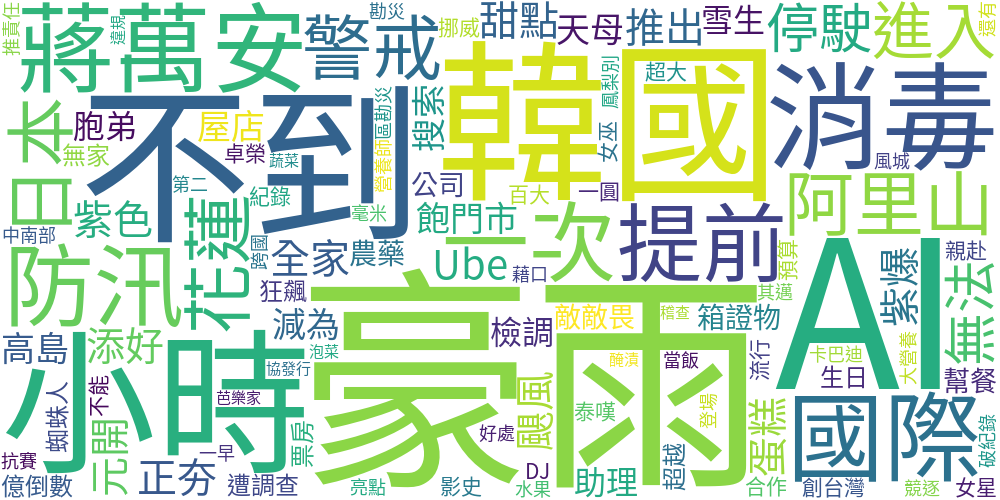
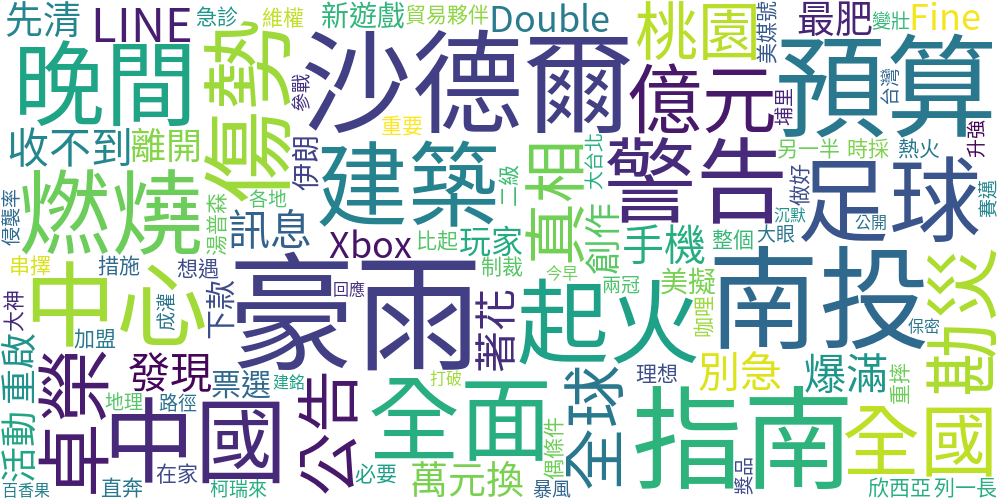
add file 2026 0825

diff --git a/news_scraper.py b/news_scraper.py
@@ -1,0 +1,183 @@
+import logging
+import json
+import sqlite3
+import time
+from datetime import datetime
+import requests
+from bs4 import BeautifulSoup
+import pandas as pd
+import schedule
+
+# 設定 Logging 紀錄
+logging.basicConfig(
+    level=logging.INFO,
+    format='%(asctime)s - [%(levelname)s] - %(message)s'
+)
+
+class NewsPipeline:
+    """
+    ETtoday 新聞自動化 ETL 管道
+    包含：爬取、去重、SQLite 寫入、歷史清理、CSV/JSON 匯出
+    """
+
+    def __init__(self, db_path: str = "news_database.db", max_keep_records: int = 100):
+        self.target_url = "https://www.ettoday.net/news/news-list.htm"
+        self.headers = {
+            "User-Agent": (
+                "Mozilla/5.0 (Windows NT 10.0; Win64; x64) "
+                "AppleWebKit/537.36 (KHTML, like Gecko) "
+                "Chrome/120.0.0.0 Safari/537.36"
+            )
+        }
+        self.db_path = db_path
+        self.max_keep_records = max_keep_records  # 資料庫最多保留的新聞筆數
+        self._init_db()
+
+    def _init_db(self):
+        """初始化 SQLite 資料庫與資料表"""
+        with sqlite3.connect(self.db_path) as conn:
+            cursor = conn.cursor()
+            # 以 url 作為 PRIMARY KEY 達成自動去重功能
+            cursor.execute('''
+                CREATE TABLE IF NOT EXISTS news (
+                    url TEXT PRIMARY KEY,
+                    title TEXT NOT NULL,
+                    category TEXT,
+                    news_time TEXT,
+                    scraped_at TEXT
+                )
+            ''')
+            conn.commit()
+
+    def fetch_page(self) -> str | None:
+        """發送 HTTP 請求並取得網頁原始碼"""
+        try:
+            logging.info(f"開始抓取網頁內容: {self.target_url}")
+            response = requests.get(self.target_url, headers=self.headers, timeout=10)
+            response.raise_for_status()
+            response.encoding = 'utf-8'
+            return response.text
+        except requests.exceptions.RequestException as e:
+            logging.error(f"網絡請求失敗: {e}")
+            return None
+
+    def parse_news(self, html_content: str) -> list[dict]:
+        """解析 HTML 結構"""
+        if not html_content:
+            return []
+
+        soup = BeautifulSoup(html_content, 'html.parser')
+        news_list = []
+        news_items = soup.select('.part_list_2 > h3')
+
+        for item in news_items:
+            try:
+                time_str = item.select_one('.date').text.strip()
+                category = item.select_one('em').text.strip()
+                title_tag = item.select_one('a')
+
+                title = title_tag.text.strip()
+                link = "https://www.ettoday.net" + title_tag['href'] if title_tag['href'].startswith('/') else title_tag['href']
+
+                news_data = {
+                    "time": time_str,
+                    "category": category,
+                    "title": title,
+                    "url": link,
+                    "scraped_at": datetime.now().strftime("%Y-%m-%d %H:%M:%S")
+                }
+                news_list.append(news_data)
+
+            except AttributeError:
+                continue
+
+        return news_list
+
+    def save_to_db(self, news_list: list[dict]) -> int:
+        """將資料寫入 SQLite 並去除重複，最後清理舊資料"""
+        if not news_list:
+            return 0
+
+        new_inserted = 0
+        with sqlite3.connect(self.db_path) as conn:
+            cursor = conn.cursor()
+
+            # 1. 寫入資料：若 url 已存在則忽略 (INSERT OR IGNORE)
+            for news in news_list:
+                cursor.execute('''
+                    INSERT OR IGNORE INTO news (url, title, category, news_time, scraped_at)
+                    VALUES (?, ?, ?, ?, ?)
+                ''', (news['url'], news['title'], news['category'], news['time'], news['scraped_at']))
+
+                if cursor.rowcount > 0:
+                    new_inserted += 1
+
+            # 2. 保留最新 N 筆，刪除其餘舊資料
+            cursor.execute('''
+                DELETE FROM news
+                WHERE rowid NOT IN (
+                    SELECT rowid FROM news ORDER BY scraped_at DESC, news_time DESC LIMIT ?
+                )
+            ''', (self.max_keep_records,))
+
+            conn.commit()
+
+        logging.info(f"SQLite 更新完畢：新增 {new_inserted} 筆資料，舊資料已清理，目前資料庫維持最新 {self.max_keep_records} 筆。")
+        return new_inserted
+
+    def export_files(self):
+        """從 SQLite 讀取最新資料並匯出成 CSV 與 JSON"""
+        with sqlite3.connect(self.db_path) as conn:
+            df = pd.read_sql_query("SELECT * FROM news ORDER BY scraped_at DESC, news_time DESC", conn)
+
+        if df.empty:
+            logging.warning("資料庫無內容，無法匯出。")
+            return
+
+        today_str = datetime.now().strftime("%Y%m%d")
+        csv_filename = f"daily_news_{today_str}.csv"
+        json_filename = f"daily_news_{today_str}.json"
+
+        # 匯出 CSV (utf-8-sig 防止 Excel 亂碼)
+        df.to_csv(csv_filename, index=False, encoding='utf-8-sig')
+
+        # 匯出 JSON
+        records = df.to_dict(orient='records')
+        with open(json_filename, 'w', encoding='utf-8') as f:
+            json.dump(records, f, ensure_ascii=False, indent=4)
+
+        logging.info(f"已匯出檔案: {csv_filename} 與 {json_filename}")
+
+        # 終端機預覽輸出
+        print(f"\n[即時更新 - {datetime.now().strftime('%H:%M:%S')}] 資料庫最新 {len(df)} 筆內容預覽：")
+        print(df.head(5).to_string(index=False))
+
+    def run_pipeline(self):
+        """執行一次單次完整任務 (ETL)"""
+        logging.info(">>> 開始執行新聞自動化抓取任務 <<<")
+        html = self.fetch_page()
+        if html:
+            news_list = self.parse_news(html)
+            self.save_to_db(news_list)
+            self.export_files()
+
+
+if __name__ == "__main__":
+    pipeline = NewsPipeline(max_keep_records=50)
+
+    # 1. 啟動時先立即執行第 1 次抓取
+    pipeline.run_pipeline()
+
+    # 2. 設定每 3 分鐘自動輪詢執行一次
+    schedule.clear()
+    schedule.every(3).minutes.do(pipeline.run_pipeline)
+
+    print("\n⏰ 定時排程已啟動！每 3 分鐘會自動抓取一次... (按 Ctrl+C 可停止程式)")
+
+    # 3. 常駐監聽排程（PyCharm 本地環境建議寫成無窮迴圈）
+    try:
+        while True:
+            schedule.run_pending()
+            time.sleep(1)
+    except KeyboardInterrupt:
+        print("\n停用排程，程式已安全結束。")

diff --git a/README.md b/README.md
@@ -1,0 +1,44 @@
+# 📰 Python ETtoday 即時新聞爬蟲與熱門關鍵字文字雲 (News Scraper & WordCloud)
+
+[![Python Version](https://img.shields.io/badge/python-3.9%2B-blue.svg)](https://www.python.org/)
+[![License](https://img.shields.io/badge/license-MIT-green.svg)](LICENSE)
+[![Status](https://img.shields.io/badge/status-active-brightgreen.svg)]()
+
+一個基於 Python 的自動化新聞爬蟲與文字分析專案。專案透過爬取 ETtoday 即時新聞標題，自動進行繁體中文斷詞（Jieba Tokenization）與停用詞過濾，最後生成當日熱門新聞關鍵字的視覺化文字雲（WordCloud）。
+
+適合做為 **Python 網路爬蟲**、**中文文字探勘 (Text Mining)** 以及 **ETL 資料處理管道** 的 Portfolio 展示範例。
+
+---
+
+## 💡 專案亮點 (Key Features)
+
+* **輕量高效爬蟲**：採用 `Requests` 與 `BeautifulSoup4` 進行目標網頁結構化萃取。
+* **SQLite 歷史去重與自動清理**：資料庫採用原生 `PRIMARY KEY (URL)` 設定，達成重複標題過濾，並具備滾動式舊資料自動清理機制 (TTL)。
+* **靈活資料匯出**：支援將爬取的最新資料自動導出為 `JSON` 與 `CSV` 格式。
+* **精準中文斷詞與停用詞過濾**：整合 `jieba` 中文斷詞引擎，並設定自訂新聞停用詞清單（如：快訊、影、爆等），提高關鍵字統計精準度。
+* **高質感資料視覺化**：自動生成繁體中文視覺化文字雲圖表，協助快速掌握當日新聞趨勢。
+
+---
+
+## 🖼 成果展示 (Result Preview)
+
+產出的當日新聞熱門關鍵字文字雲：
+
+![WordCloud Result](wordcloud_result.png)
+
+---
+
+## 📂 目錄結構 (Project Structure)
+
+```text
+python-news-scraper-wordcloud/
+│
+├── daily_news_20260825.json    # 爬蟲產出的結構化新聞資料 (JSON 格式)
+├── daily_news_20260825.csv     # 爬蟲產出的新聞資料 (CSV 格式)
+├── news_database.db            # SQLite 本地資料庫 (儲存去重後的新聞)
+├── generate_wordcloud.py       # 文字雲生成與視覺化主程式
+├── news_scraper.py             # ETtoday 自動化爬蟲與 SQLite 寫入主程式
+├── NotoSansTC-Regular.otf      # 繁體中文字型檔 (避免文字雲亂碼)
+├── wordcloud_result.png        # 產出的文字雲成果圖
+├── requirements.txt            # 專案依賴套件清單
+└── README.md                   # 專案說明文件
